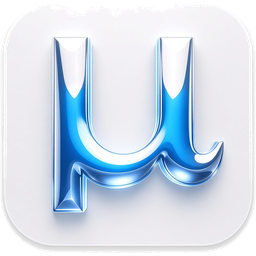
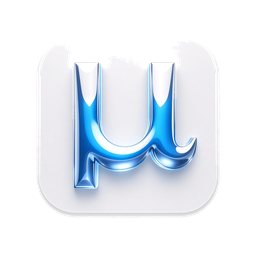
Stop clipping the μ at the top edge
The plate sat flush with the bitmap, so Safari, Chrome, iOS, and
Android masks cut the curve. Recrop with even padding, inset the
apple/maskable icons into the OS safe-zone, and pin img sizes so
flex layouts cannot squash it.

diff --git a/src/app/api/oauth/authorize/route.ts b/src/app/api/oauth/authorize/route.ts
@@ -159,7 +159,7 @@ async function handleGet(req: NextRequest): Promise<NextResponse> {
 
   const html = `<!doctype html><html><head><meta charset="utf-8"><meta name="viewport" content="width=device-width, initial-scale=1"><title>Mnemos — connect</title></head><body style="font-family:system-ui,sans-serif;background:#efeef3;color:#000820;display:flex;min-height:100vh;align-items:center;justify-content:center;margin:0;padding:24px;">
 <form method="POST" action="/api/oauth/authorize" style="max-width:24rem;width:100%;background:#fcfcfc;border:1px solid rgba(28,116,216,0.2);border-radius:16px;padding:28px;">
-  <img src="/icon-192.png" alt="Mnemos" width="56" height="56" style="width:56px;height:56px;object-fit:contain;margin:0 0 16px;" />
+  <img src="/icon-192.png" alt="Mnemos" width="56" height="56" style="width:56px;height:56px;object-fit:contain;display:block;margin:0 0 16px;" />
   <h1 style="font-size:1.15rem;margin:0 0 8px;">Connect to Mnemos</h1>
   <p style="opacity:0.8;line-height:1.5;margin:0 0 4px;"><strong>${escapeHtml(clientName)}</strong> wants to access your knowledge hub.</p>
   <p style="opacity:0.6;line-height:1.5;font-size:0.85rem;margin:0 0 12px;">Signed in as <strong>${escapeHtml(user.github_username)}</strong>. It will be able to capture, search, and apply your captures over MCP.</p>

diff --git a/src/app/page.tsx b/src/app/page.tsx
@@ -186,8 +186,9 @@ export default function CapturePage() {
 
       {/* Header */}
       <div className="w-full mb-10">
-        <div className="flex items-center gap-3 mb-1">
-          <img src="/logo.png" alt="Mnemos" className="h-10 w-10 object-contain"
+        <div className="flex items-center gap-3 mb-1 overflow-visible">
+          <img src="/logo.png" alt="Mnemos" width={48} height={48}
+            className="h-12 w-12 object-contain block shrink-0"
             onError={(e) => { (e.target as HTMLImageElement).style.display = "none"; }}
           />
           <h1 className="text-base font-semibold tracking-tight" style={{ color: "var(--fg)" }}>Mnemos</h1>

diff --git a/src/app/onboard/page.tsx b/src/app/onboard/page.tsx
@@ -131,7 +131,8 @@ export default function OnboardPage() {
       <div className="w-full max-w-sm space-y-4">
 
         <div className="flex flex-col items-center mb-6">
-          <img src="/logo.png" alt="Mnemos" className="w-24 h-24 object-contain mb-4"
+          <img src="/logo.png" alt="Mnemos" width={96} height={96}
+            className="w-24 h-24 object-contain block mb-4"
             onError={(e) => { (e.target as HTMLImageElement).style.display = "none"; }}
           />
           <h1 className="text-lg font-semibold tracking-tight" style={{ color: "var(--fg)" }}>

diff --git a/src/app/login/page.tsx b/src/app/login/page.tsx
@@ -88,7 +88,8 @@ export default function LoginPage() {
 
         {/* Logo + wordmark */}
         <div className="flex flex-col items-center mb-10">
-          <img src="/logo.png" alt="Mnemos" className="w-40 h-40 object-contain mb-4"
+          <img src="/logo.png" alt="Mnemos" width={160} height={160}
+            className="w-40 h-40 object-contain block mb-4"
             onError={(e) => { (e.target as HTMLImageElement).style.display = "none"; }}
           />
           <h1 className="text-lg font-semibold tracking-tight" style={{ color: "var(--fg)" }}>Mnemos</h1>

diff --git a/src/app/globals.css b/src/app/globals.css
@@ -30,6 +30,13 @@ body {
   padding-bottom: env(safe-area-inset-bottom);
 }
 
+/* Safari/Chrome will clip a flush-cropped plate at the bitmap edge. */
+img[alt="Mnemos"] {
+  display: block;
+  flex-shrink: 0;
+  overflow: visible;
+}
+
 input::placeholder,
 textarea::placeholder {
   color: var(--fg-muted);

diff --git a/README.md b/README.md
@@ -1,5 +1,5 @@
 <div align="center">
-  <img src="public/mnemos-mark.png" alt="Mnemos" width="72" height="72" />
+  <img src="public/mnemos-mark.png" alt="Mnemos" width="80" height="80" />
   <h1>Mnemos</h1>
   <p><strong>Turn what you discover into context your AI agents can use.</strong></p>
   <p>You find useful stuff. Mnemos makes sure your AI agents can use it later.</p>
